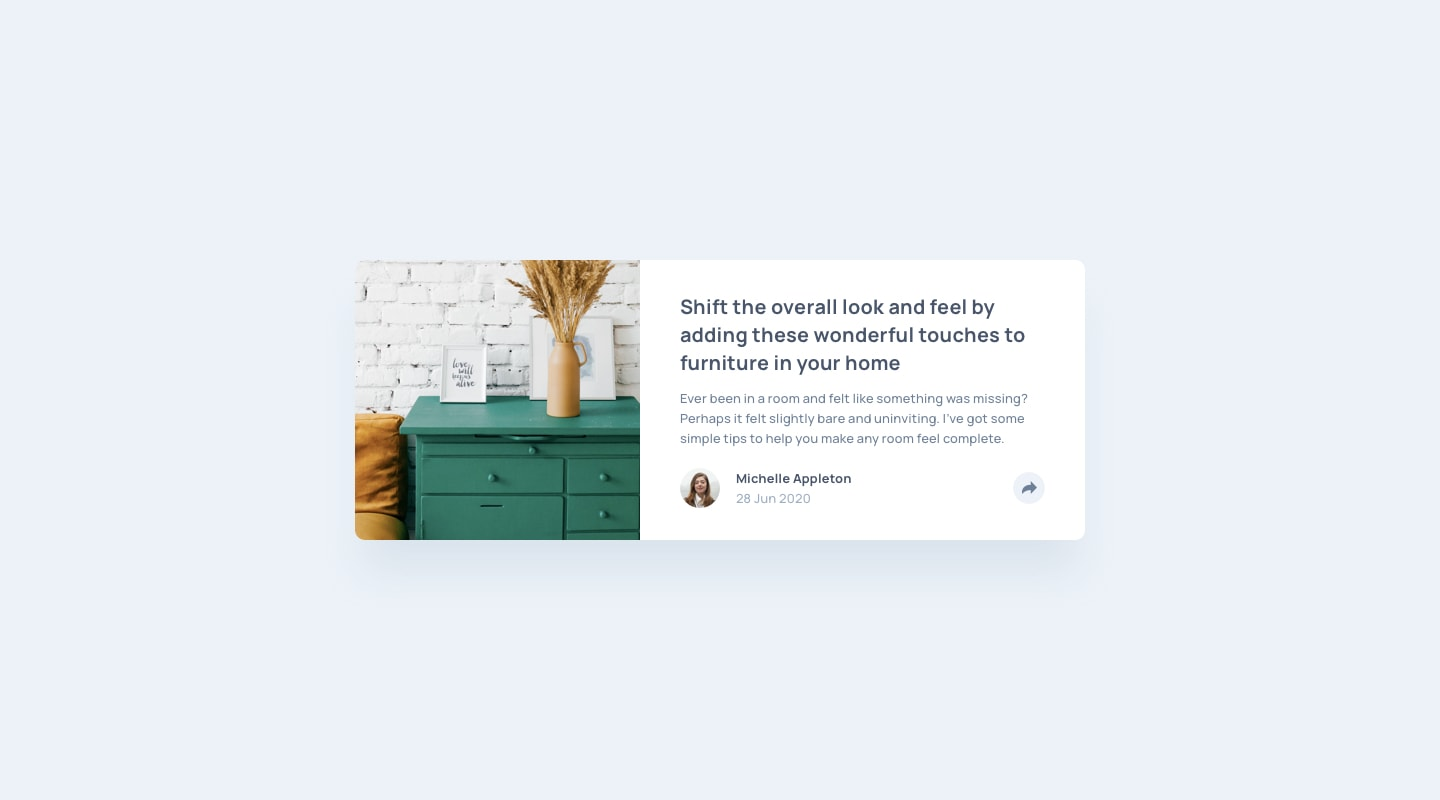
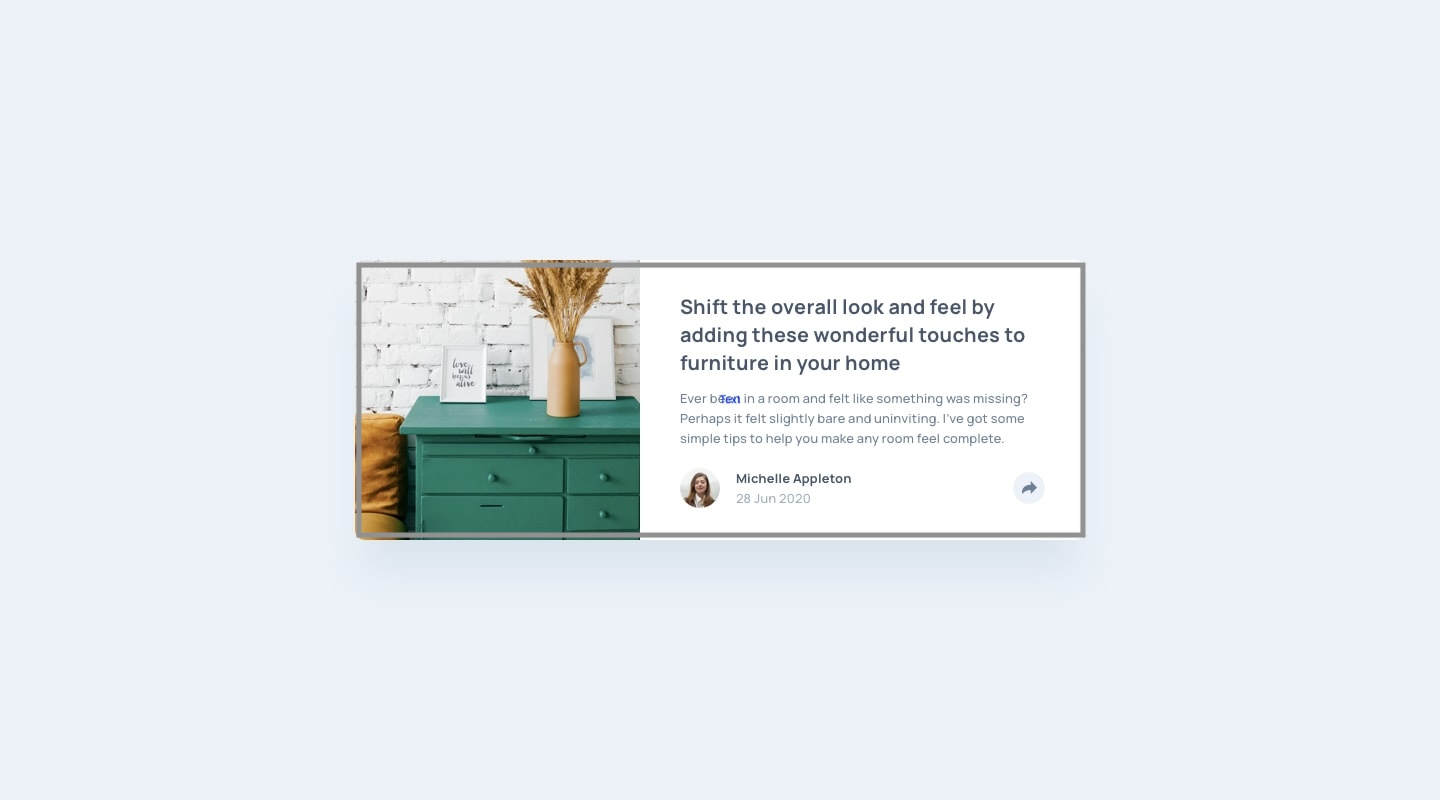
put elemnets within container

Changed region(s): [[0.25, 0.6562, 0.75, 0.6875], [0.25, 0.3125, 0.75, 0.3438], [0.75, 0.3438, 0.7812, 0.6562]]

diff --git a/index.html b/index.html
@@ -18,31 +18,35 @@
 <body>
 
   <div class="container-article">
+
     <!--DRAWER IMAGE ON THE LEFT-->
     <div class="article-img">
-      <img src="./images/drawers.jpg" alt="Drawers Image">
+      <img src="./images/drawers.jpg" alt="Drawers Image" width="250px" height="200px">
     </div>
-    <div class="c-info">
+
     <!--TEXT ON THE RIGHT-->
-      <div class="card-text">
+    <div class="c-info">
+      <div class="card-heading">
         <h3>Shift the overall look and feel by adding these wonderful touches to furniture in your home</h3>
+      </div>
+      <div class="card-text">
         <p>Ever been in a room and felt like something was missing? Perhaps it felt slightly bare and uninviting. I’ve got some simple tips to help you make any room feel complete.</p>
       </div>
+    </div>
+
       <!--INFORMATION ON THE BOTTOM-->
-      <div class="post-info">
-        <!--AVATAR DETAILS-->
-        <div class="info-left">
-          <div class="avatar">
-            <img src="./images/avatar-michelle.jpg" alt="Michelle Appleton Avatar">
+      <div class="person">
+        <!-- AVATAR DETAILS -->
+        <!-- <div class="info-left"> -->
+          <div >
+            <img class="avatar" src="./images/avatar-michelle.jpg" alt="Michelle Appleton Avatar">
           </div>
-          <div class="avatar-info">
+          <div class="avatar-name">
             <h6>Michelle Appleton</h6>
             <p>28 Jun 2020</p>
           </div>
           <!--SHARE BUTTON ON LEFT-->
-          <div class="share-button">
-            <img src="./images/icon-share.svg" alt="Share Icon">
-          </div>
+          <button type="button" class="share-btn"><img src="./images/icon-share.svg" alt="Share Icon"> </button>
         </div>
       </div>
     </div>

diff --git a/style.css b/style.css
@@ -21,3 +21,38 @@
   padding: 0;
   box-sizing: border-box;
 }
+
+body {
+  background-color: var(--light-grayish-blue);
+
+}
+
+.container-article {
+  width: 600px;
+  height: 200px;
+  background-color: white;
+  border-radius: 15px;
+  display: flex;
+}
+
+
+
+.article-img {
+  flex: 1;
+
+}
+
+/* .article-img img {
+  width: 100%;
+  height: auto;
+} */
+
+.c-info {
+  flex: 1;
+  padding: 20px; /* Add padding or adjust as needed */
+}
+
+.avatar {
+  width: 20px;
+  height: 20px;
+}
